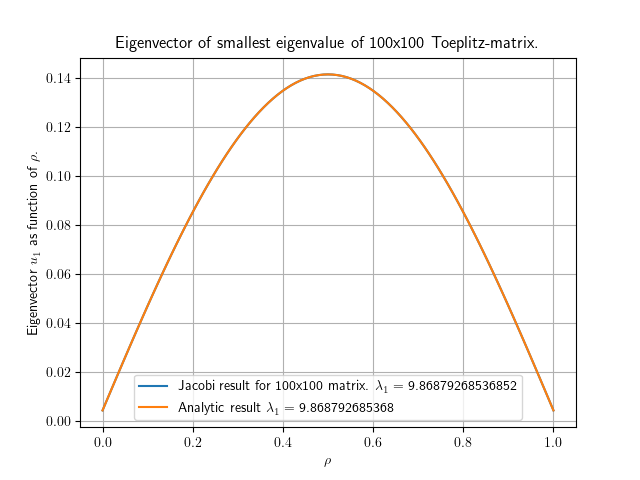
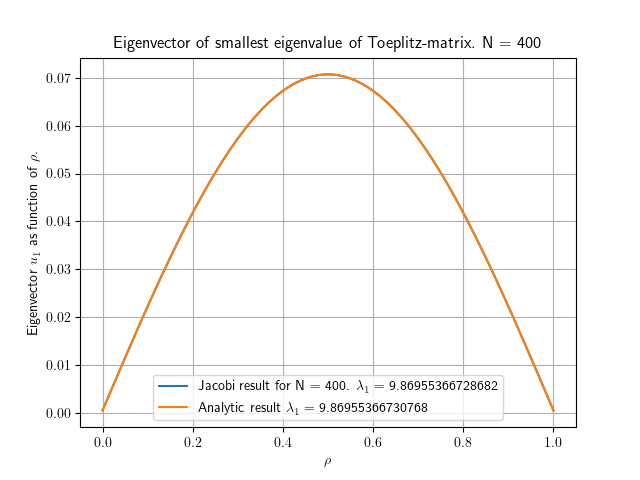
fixed typo

diff --git a/project.py b/project.py
@@ -60,13 +60,13 @@ if choose_run == "toeplitz":
     comp_norm = np.linalg.norm(eigvec)
 
     mpl.rcParams.update({"text.usetex": True})  # using latex.
-    comp_lab = f"Jacobi result for {N}x{N} matrix."
+    comp_lab = f"Jacobi result for {N = }."
     an_lab = r"Analytic result $\lambda_{1} = $ " + f"{anal_eigvals[0]}"
 
     plt.figure()
     plt.plot(rho, eigvec/comp_norm, label=comp_lab+r" $\lambda_{1} = $ " + f"{eigval}")
     plt.plot(rho, anal_eigvecs[:, 0]/anal_norm, label=an_lab)
-    plt.title(f"Eigenvector of smallest eigenvalue of {N}x{N} Toeplitz-matrix.")
+    plt.title(f"Eigenvector of smallest eigenvalue of Toeplitz-matrix. {N = }")
     plt.xlabel(r"$\rho$")
     plt.ylabel(r"Eigenvector $u_{1}$ as function of $\rho$.")
     plt.legend()
@@ -103,8 +103,8 @@ if choose_run == "single":
 
         for i in range(len(err)):
             line = f"{anal_eigvals[i]:5.0f} {comp_eigvals[comp_inx[i]]:15.3f} {err[i]:15.3e}"
-            output.write(line + "\n")
             print(line)
+            output.write(line + "\n")
 
 if choose_run == "double":
     N = int(input("Size of matrix N = "))
@@ -112,17 +112,42 @@ if choose_run == "double":
 
     omega_r = np.array([0.01, 0.5, 1, 5])
     N_omega = len(omega_r)
-    num_eigvals = np.empty((N, N_omega))
-    anal_eigvals = np.empty((N, N_omega))
+    num_eigvals = np.empty((N-1, N_omega))
+    anal_eigvals = np.empty((N-1, N_omega))
+    err = np.empty(N_omega)
+
     build_cpp()
 
     for i in range(N_omega):
         run(
-            ["./main.exe", f"{N}", choose_run, f"{rho_max:f}", f"{omega_r[i]:f}"]
+            ["./main.exe", f"{N}", choose_run, f"{rho_max:f}", f"{omega_r[i]:f}"],
+            cwd=wd
         )
+
         anal_eigvals[:, i] = np.genfromtxt(
-                             wd + f"/double_qdot_anal_eigvals_{N}.dat", skip_header=2
-                             )
-        anal_eigvals[:, i] = np.genfromtxt(
-                             wd + f"/double_qdot_anal_eigvals_{N}.dat", skip_header=2
-                             )
+            wd + f"/double_qdot_anal_eigvals_{N}.dat", skip_header=2
+        )
+
+        num_eigvals[:, i] = np.genfromtxt(
+            wd + f"/double_qdot_num_eigvals_{N}.dat", skip_header=2
+        ).sort(kind="stable")
+
+        err[i] = np.abs(
+            (anal_eigvals[0, i]-num_eigvals[0, i]) /
+            anal_eigvals[0, i]
+        )
+
+    clean()
+    with open(pwd + "/data/double_electron_data.dat", "w") as output:
+        header1 = f"Eigenvalues of two-electron atom. {N = }, {rho_max = }"
+        header2 = "Omega_r:    Analytic:    Numerical:    Relative error:"
+        print(header1)
+        output.write(header1 + "\n")
+
+        print(header2)
+        output.write(header2 + "\n")
+
+        for i in range(len(omega_r)):
+            line = f"{omega_r[i]:5.2f} {anal_eigvals[0, i]:5.0f} {num_eigvals[0, i]:15.3f} {err[i]:15.3e}"
+            print(line)
+            output.write(line + "\n")

diff --git a/src/main.cpp b/src/main.cpp
@@ -69,8 +69,8 @@ int main(int argc, char const *argv[]) {
     jacobi.solve();
 
     vec eigvals = A.diag();
-    anal_eigvals.save("double_qdot_anal_eigvals" + to_string(N+1) + ".dat", arma_ascii);
-    eigvals.save("double_qdot_num_eigvals" + to_string(N+1) + ".dat", arma_ascii);
+    anal_eigvals.save("double_qdot_anal_eigvals_" + to_string(N+1) + ".dat", arma_ascii);
+    eigvals.save("double_qdot_num_eigvals_" + to_string(N+1) + ".dat", arma_ascii);
   }
   return 0;
 }
